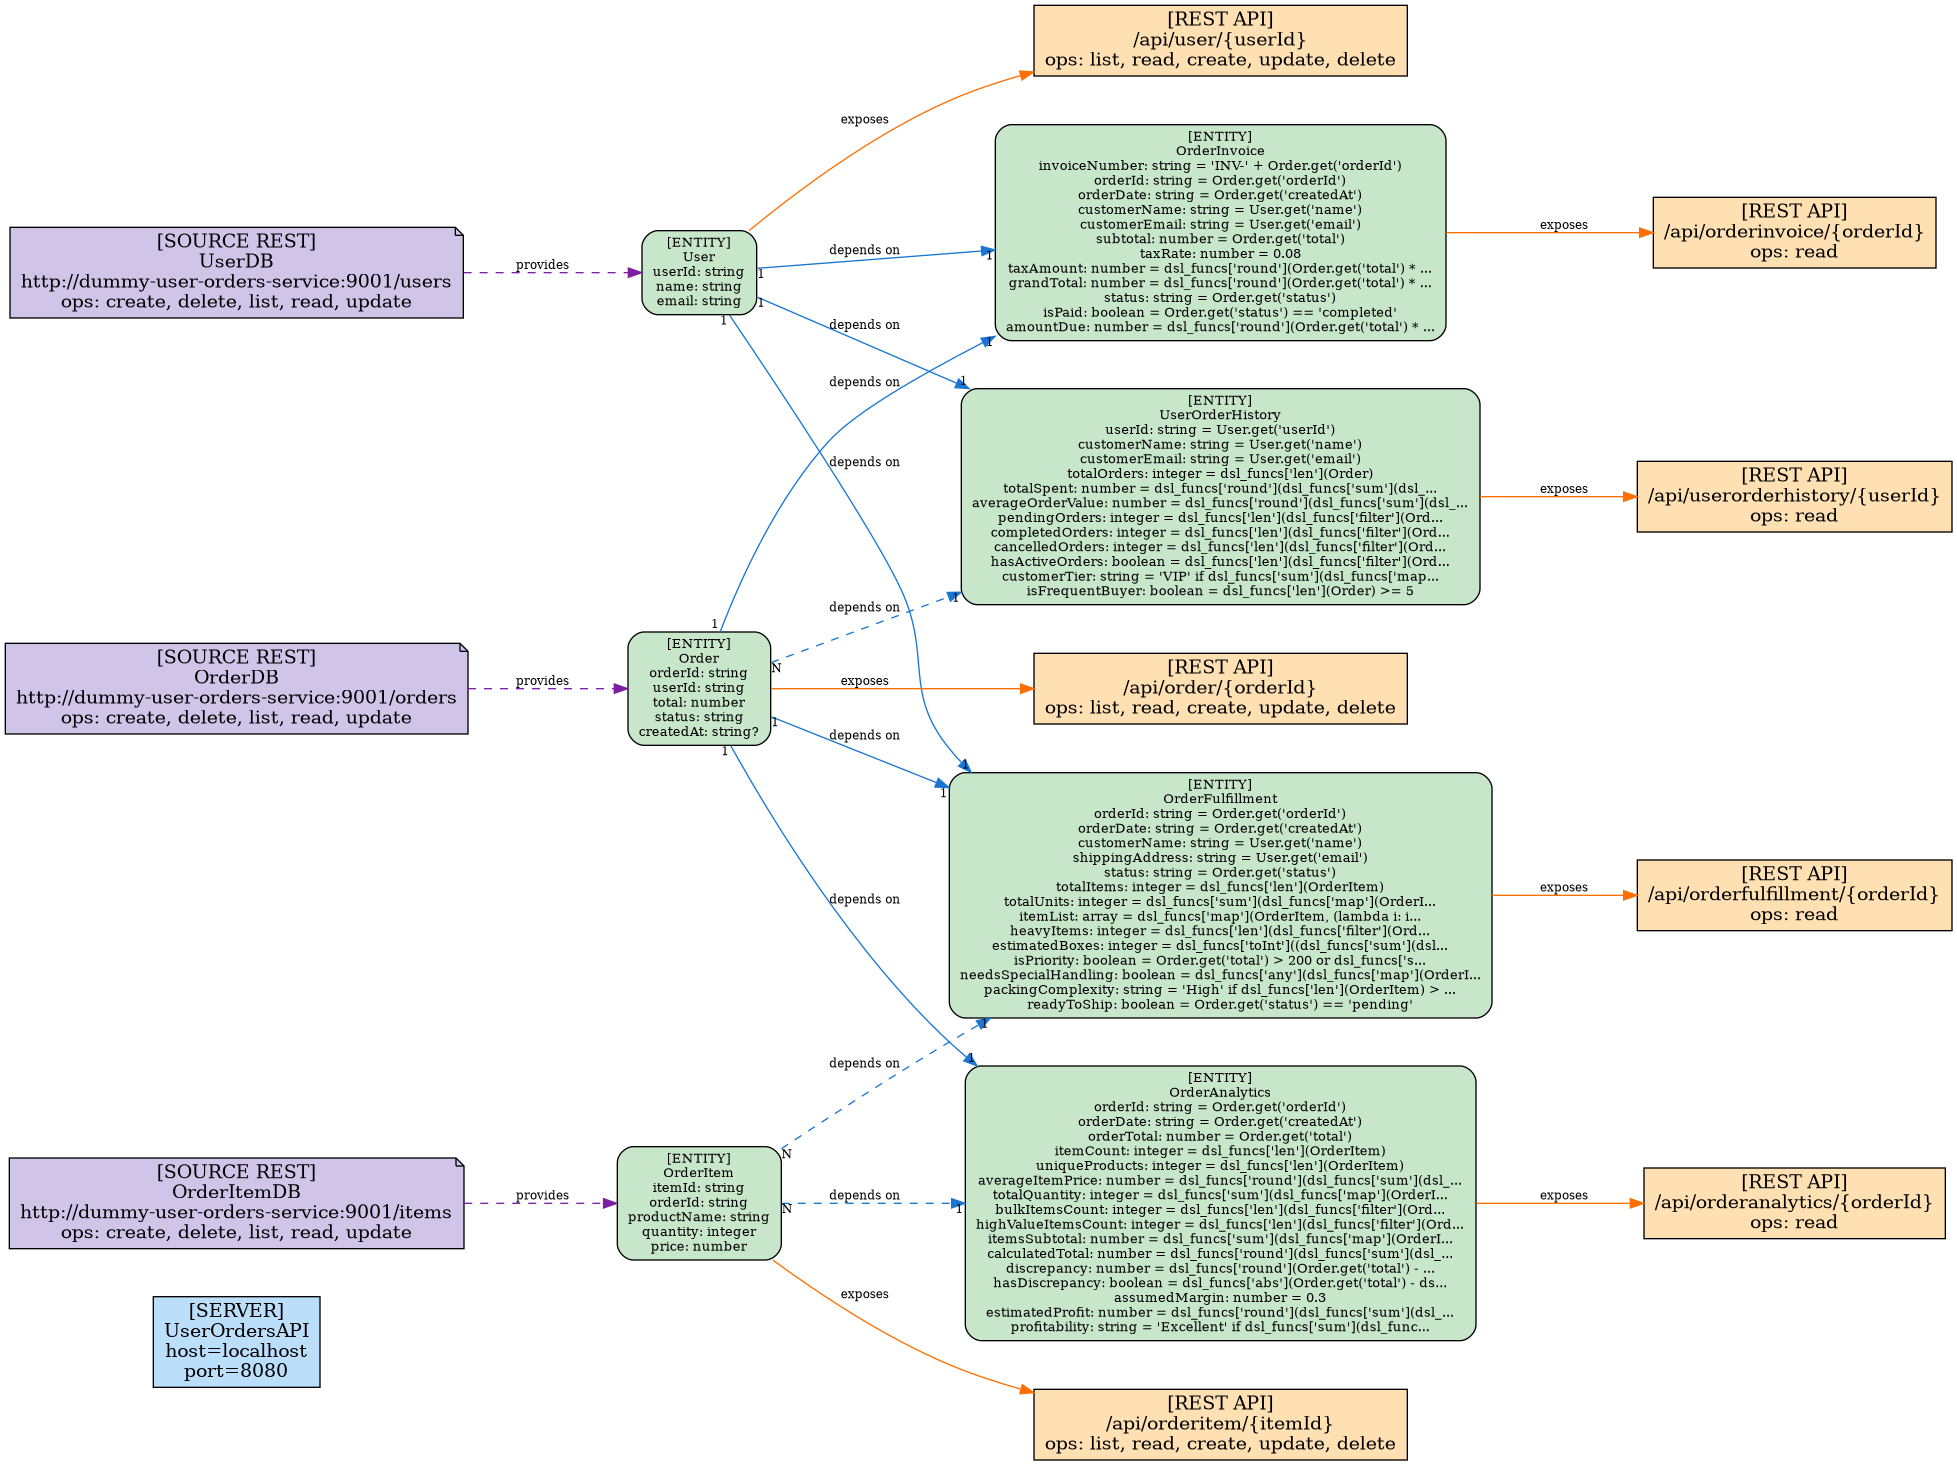
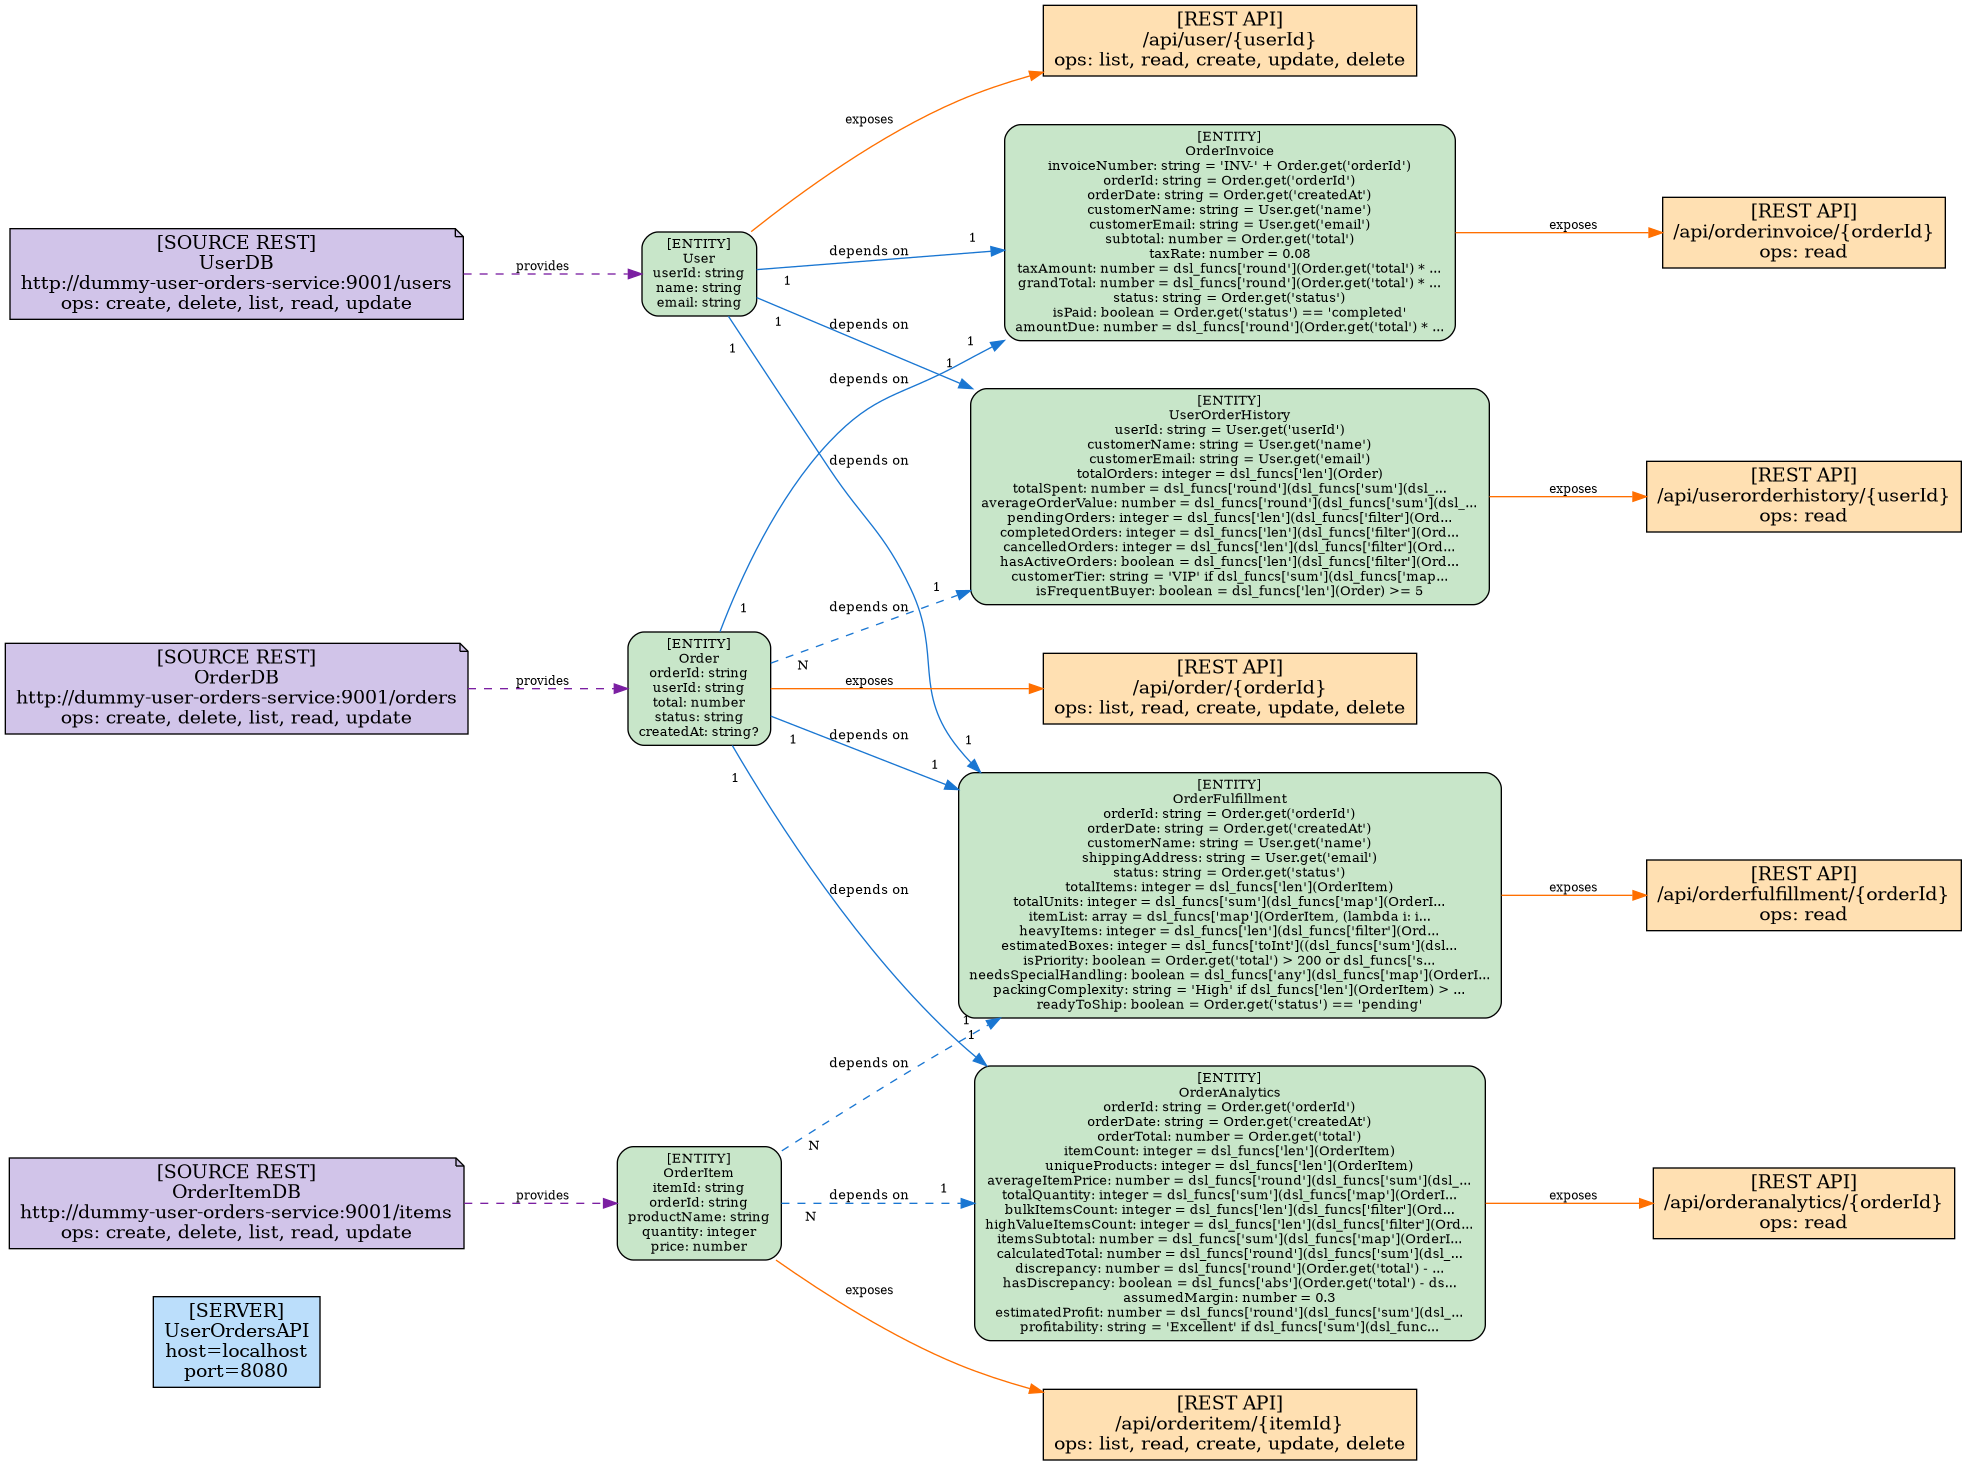
minor viz fixes

diff --git a/functionality_dsl/cli/cli.py b/functionality_dsl/cli/cli.py
@@ -425,9 +425,10 @@ def visualize_model_cmd(context, model_path, output_dir):
                     label=edge_label,
                     taillabel=tail_label,
                     headlabel=head_label,
+                    labeldistance="2.5",  # Distance from node
                     style=edge_style,
                     color=edge_color,
-                    fontsize="9"
+                    fontsize="10"
                 )
 
             # v2 syntax: Entity expose blocks (REST/WebSocket)
